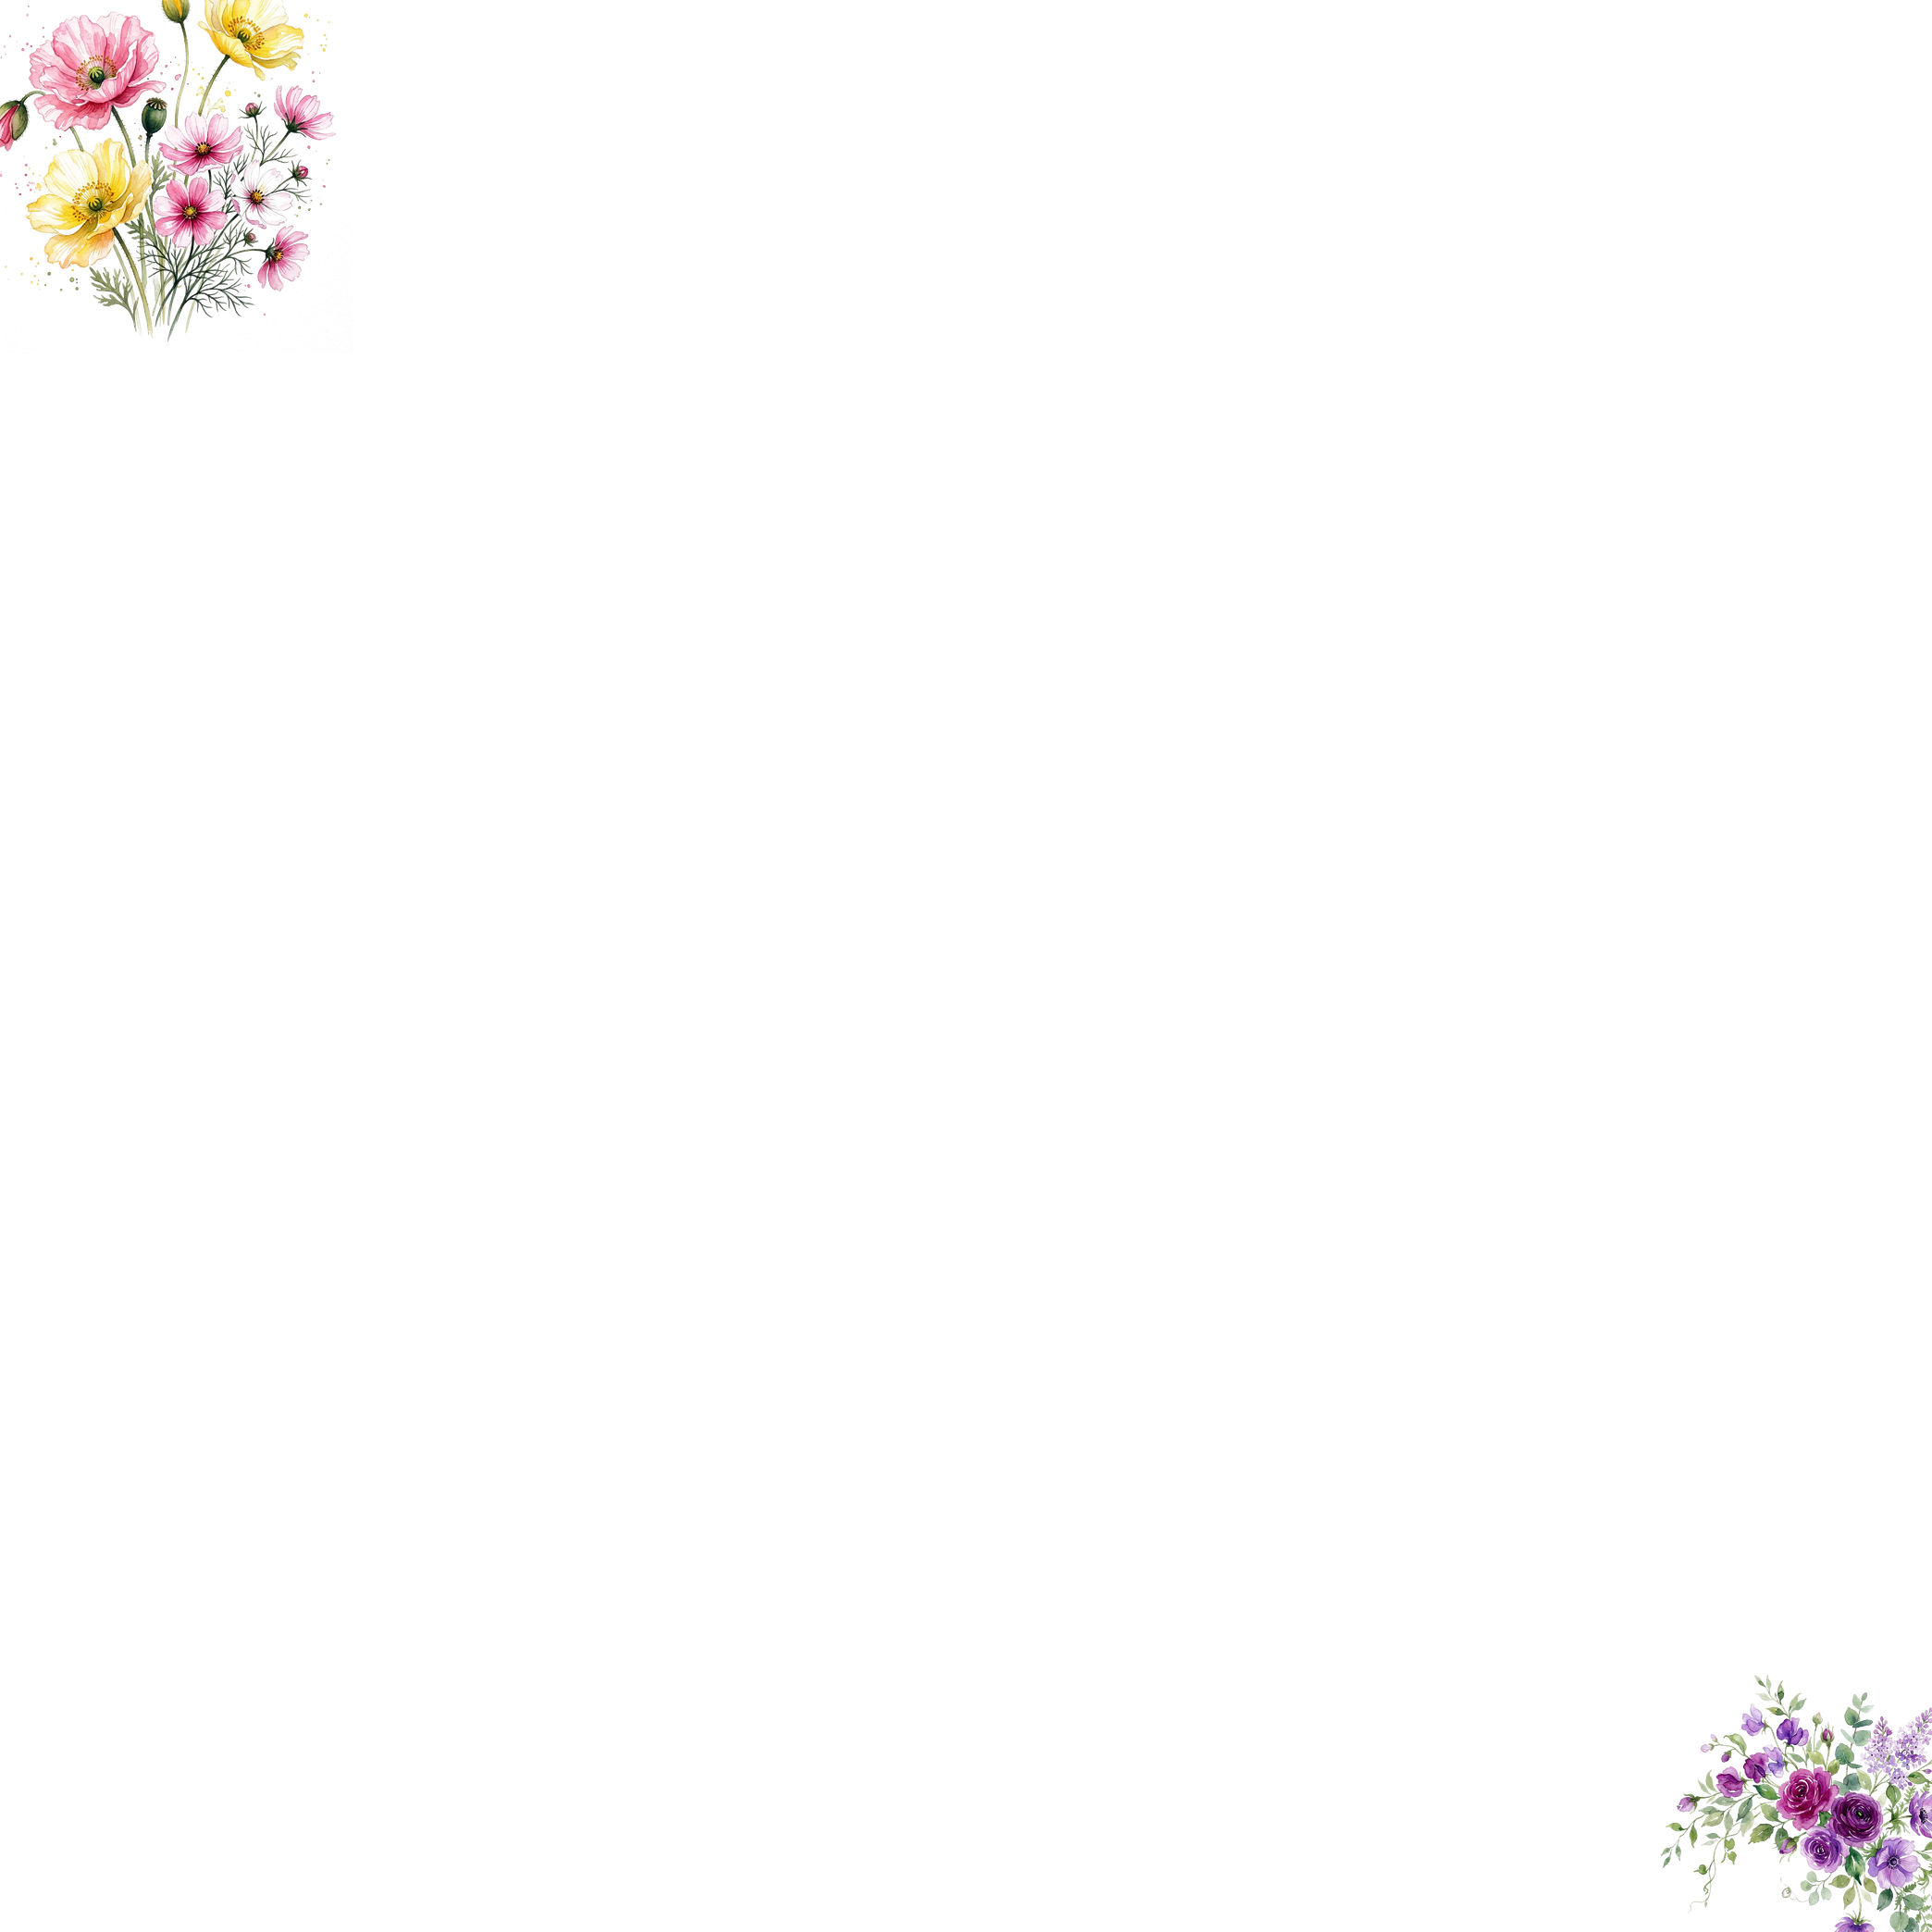
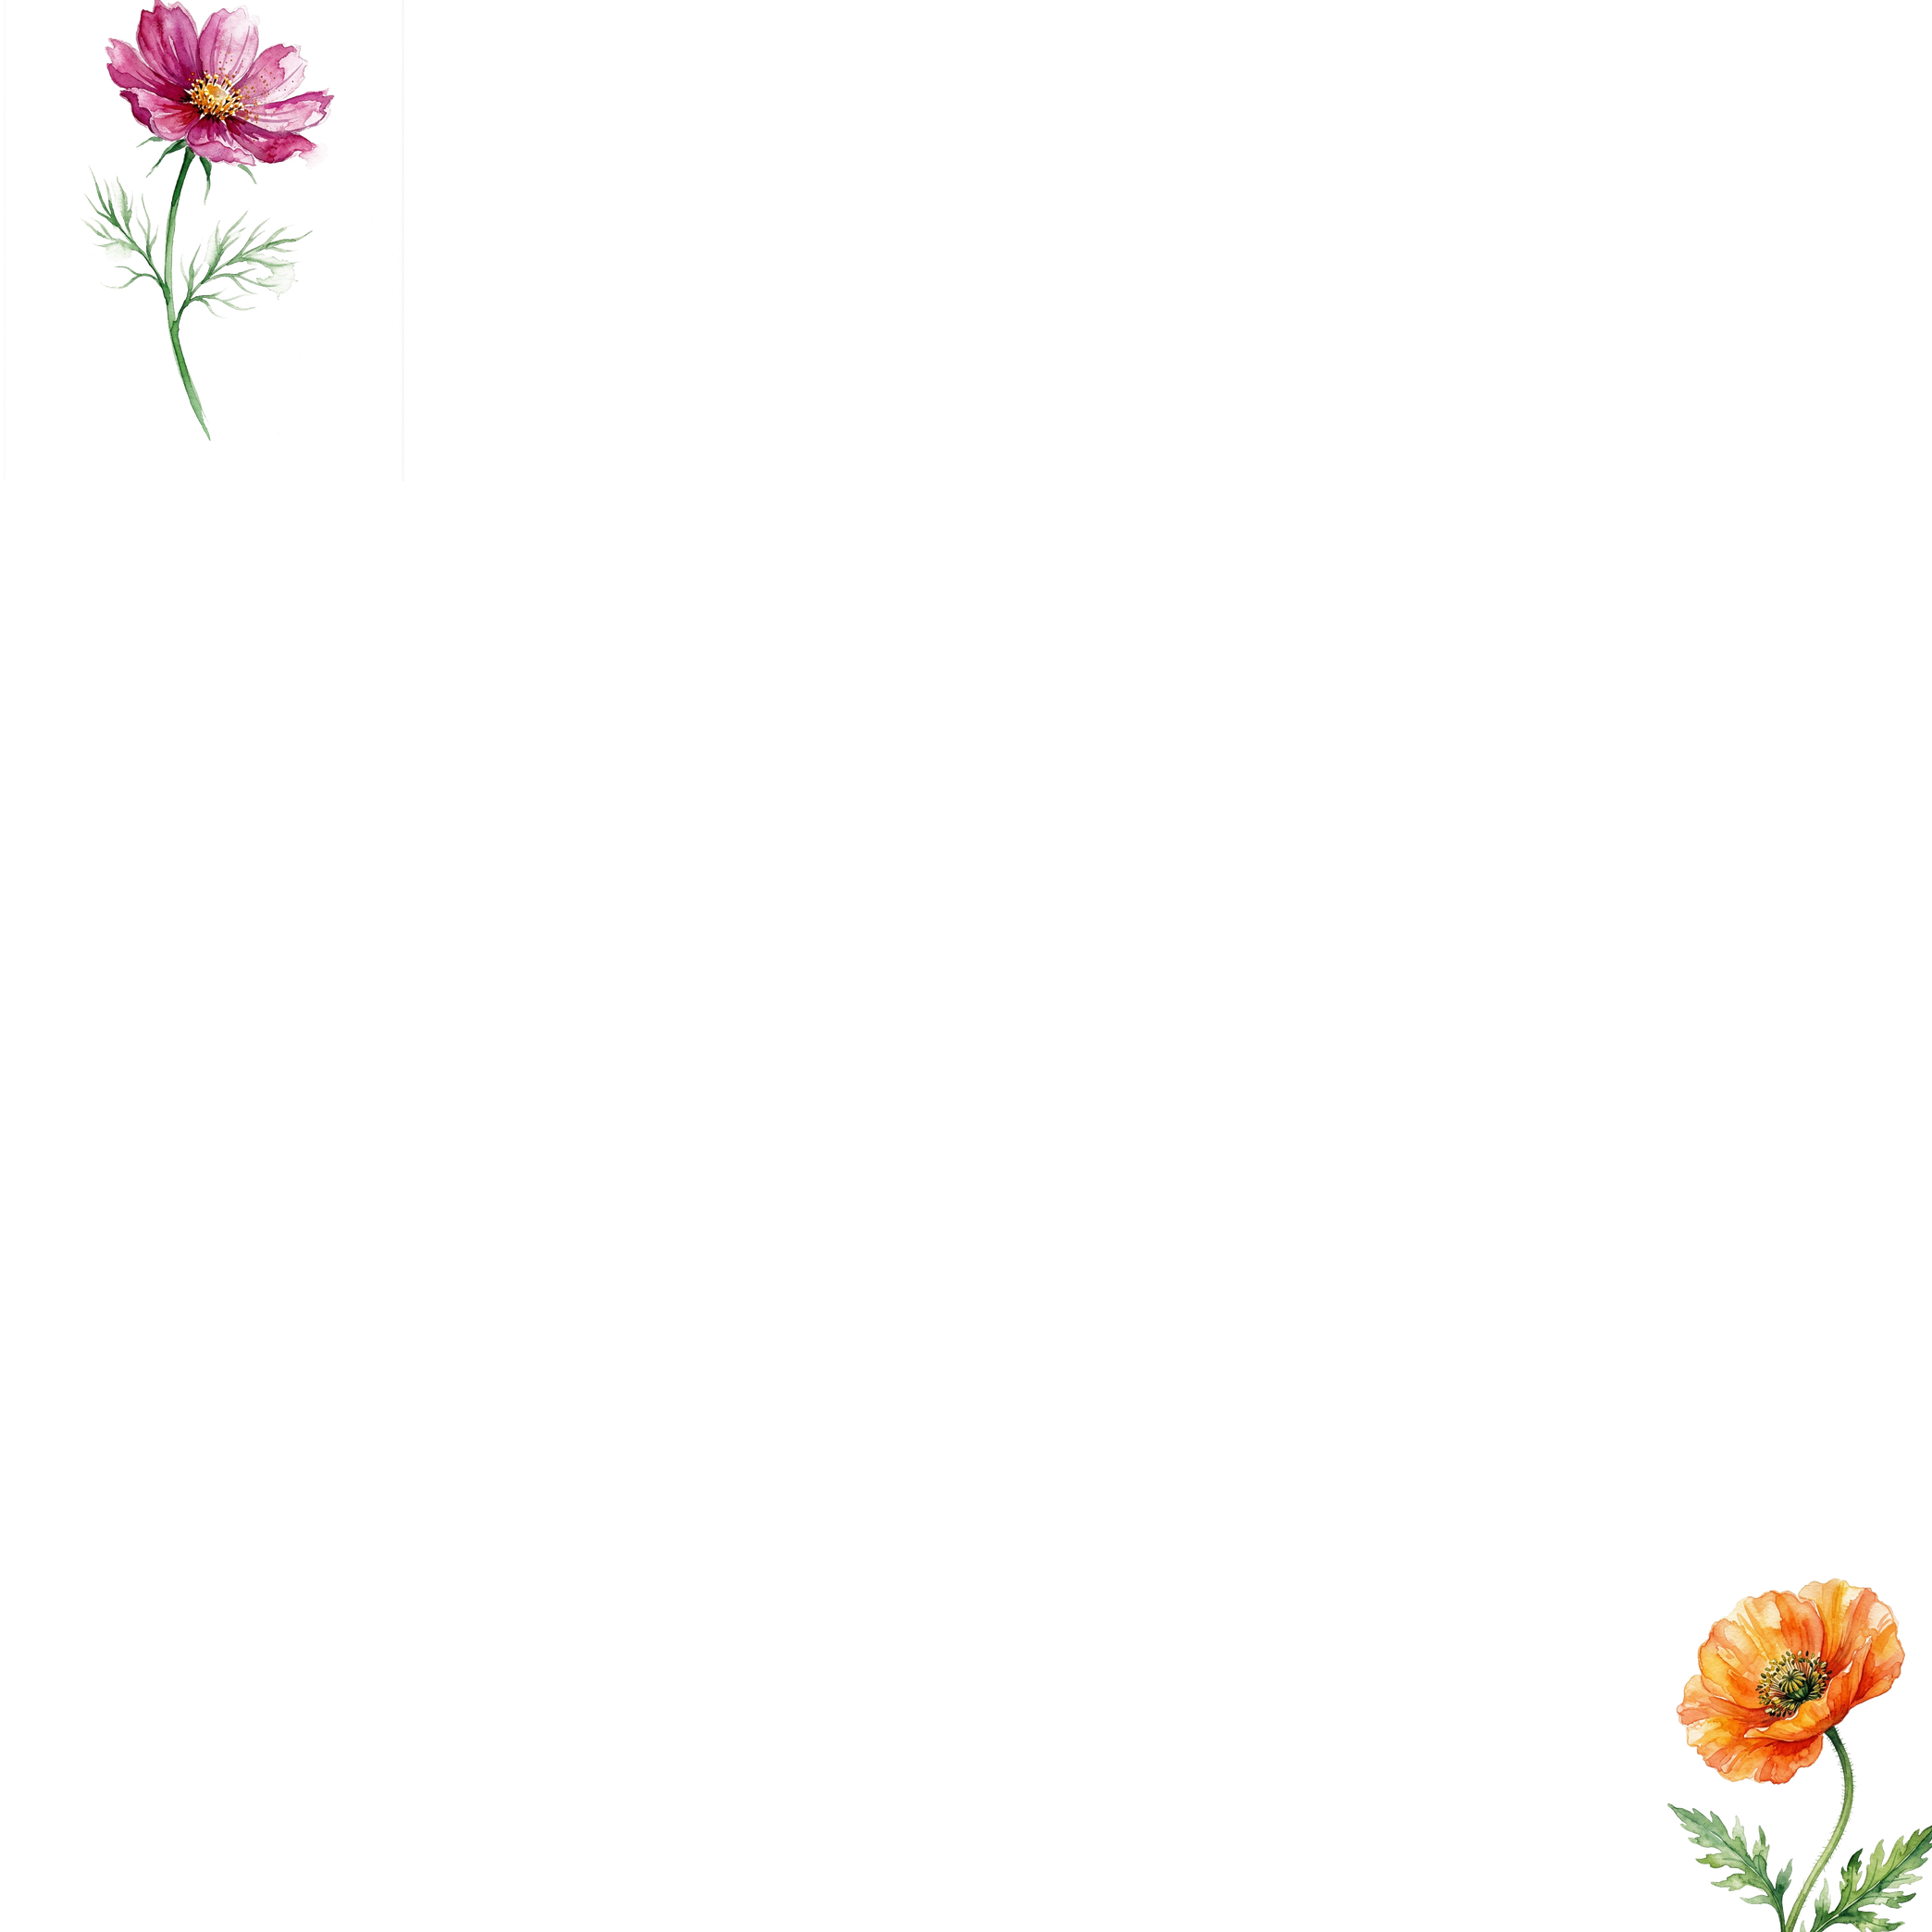
fix: solucionar vibracion AR reduciendo max-Z y aplicando filterBeta, cambiar background y usar flores únicas grandes

Changed region(s): [[0.8405, 0.8094, 1.0, 1.0], [0.0, 0.0, 0.1868, 0.2179]]

diff --git a/create-ar-layers.js b/create-ar-layers.js
@@ -15,11 +15,12 @@ const PHOTO_FILES = [
     'fotos/foto7.jpg', 'fotos/foto8.jpg', 'fotos/foto9.jpg',
 ];
 
-// Nuevas flores acuarela con transparencia limpia
-const FLOWER_FILES = [
-    'assets/flores/flower-w1.png',
-    'assets/flores/flower-w2.png'
+const FLOWER_SINGLE_FILES = [
+    'assets/flores/flower-single1.png', // Pink Cosmos
+    'assets/flores/flower-single2.png'  // Yellow Poppy
 ];
+
+const BACKGROUND_IMAGE = 'C:\\Users\\Sanch\\.gemini\\antigravity\\brain\\ad7774ca-160b-4aa5-a905-b3ca85659852\\floral_background_1775710233191.png';
 
 async function createLayers() {
     console.log('🔮 Generando capas transparentes PRO para Realidad Aumentada 3D...\n');
@@ -28,10 +29,9 @@ async function createLayers() {
 
     const photos = [];
     for (let i = 0; i < PHOTO_FILES.length; i++) {
-        // Cargar fotos sin CERO bordes blancos extra
         let buf = await sharp(PHOTO_FILES[i])
             .resize(CELL_SIZE, CELL_SIZE, { fit: 'cover', position: 'centre' })
-            .grayscale()
+            .grayscale() // Dejamos las fotos en escala de grises y las flores de colores vibrantes
             .png()
             .toBuffer();
         photos.push(buf);
@@ -49,12 +49,12 @@ async function createLayers() {
         return { x, y };
     };
 
-    // LAYER 2: Flores de fondo. Vamos a crear un jardín acuarela abajo
-    let compsL2 = [];
-    compsL2.push({ input: await sharp(FLOWER_FILES[0]).resize(800).toBuffer(), left: 100, top: TOTAL_SIZE - 850 });
-    compsL2.push({ input: await sharp(FLOWER_FILES[1]).resize(900).toBuffer(), left: TOTAL_SIZE - 950, top: 150 });
-    await sharp(await getBlank()).composite(compsL2).png().toFile(path.join(outDir, 'layer2_bg_flowers.png'));
-    console.log('✅ Generada Layer 2 (Jardín Acuarela Base)');
+    // LAYER 1: Full Floral Background (Reemplaza el cuadro real tapando las fotos viejas)
+    await sharp(BACKGROUND_IMAGE)
+        .resize(TOTAL_SIZE, TOTAL_SIZE, { fit: 'cover' })
+        .png()
+        .toFile(path.join(outDir, 'layer1_bg_floral.png'));
+    console.log('✅ Generada Layer 1 (Fondo Completo de Flores sobre el cuadro real)');
 
     // LAYER 3: Cruz de fotos
     const crossIndices = [1, 3, 5, 7];
@@ -64,12 +64,14 @@ async function createLayers() {
         compsL3.push({ input: photos[i], left: x, top: y });
     }
     await sharp(await getBlank()).composite(compsL3).png().toFile(path.join(outDir, 'layer3_cross_photos.png'));
+    console.log('✅ Generada Layer 3');
     
-    // LAYER 4: Flores cruz
+    // LAYER 4: Flores cruz (Flores GRANDES ÚNICAS en las esquinas de algunas fotos de la cruz)
     let compsL4 = [];
-    compsL4.push({ input: await sharp(FLOWER_FILES[1]).resize(500).toBuffer(), left: getCoords(3).x - 100, top: getCoords(3).y + 200 });
-    compsL4.push({ input: await sharp(FLOWER_FILES[0]).resize(450).toBuffer(), left: getCoords(5).x + 300, top: getCoords(5).y - 50 });
+    compsL4.push({ input: await sharp(FLOWER_SINGLE_FILES[1]).resize(450).toBuffer(), left: getCoords(1).x - 120, top: getCoords(1).y + 350 }); // Amarillo en Top
+    compsL4.push({ input: await sharp(FLOWER_SINGLE_FILES[0]).resize(500).toBuffer(), left: getCoords(5).x + 400, top: getCoords(5).y - 150 }); // Rosa en Right
     await sharp(await getBlank()).composite(compsL4).png().toFile(path.join(outDir, 'layer4_cross_flowers.png'));
+    console.log('✅ Generada Layer 4');
 
     // LAYER 5: Esquinas
     const cornerIndices = [0, 2, 6, 8];
@@ -79,22 +81,28 @@ async function createLayers() {
         compsL5.push({ input: photos[i], left: x, top: y });
     }
     await sharp(await getBlank()).composite(compsL5).png().toFile(path.join(outDir, 'layer5_corner_photos.png'));
+    console.log('✅ Generada Layer 5');
 
-    // LAYER 6: Flores esquinas
+    // LAYER 6: Flores esquinas (Flor Grande en la esquina Inferior Izquierda, etc.)
     let compsL6 = [];
-    compsL6.push({ input: await sharp(FLOWER_FILES[0]).resize(500).toBuffer(), left: getCoords(0).x - 200, top: getCoords(0).y - 200 });
-    compsL6.push({ input: await sharp(FLOWER_FILES[1]).resize(400).toBuffer(), left: getCoords(8).x + 400, top: getCoords(8).y + 400 });
+    compsL6.push({ input: await sharp(FLOWER_SINGLE_FILES[0]).resize(600).toBuffer(), left: getCoords(0).x - 200, top: getCoords(0).y - 200 }); // Rosa Top Left
+    compsL6.push({ input: await sharp(FLOWER_SINGLE_FILES[1]).resize(550).toBuffer(), left: getCoords(8).x + 300, top: getCoords(8).y + 300 }); // Amarilla Bottom Right
     await sharp(await getBlank()).composite(compsL6).png().toFile(path.join(outDir, 'layer6_corner_flowers.png'));
+    console.log('✅ Generada Layer 6');
 
     // LAYER 7: Centro
     const centerIndex = 4;
     const cCoords = getCoords(centerIndex);
     await sharp(await getBlank()).composite([{ input: photos[centerIndex], left: cCoords.x, top: cCoords.y }]).png().toFile(path.join(outDir, 'layer7_center_photo.png'));
+    console.log('✅ Generada Layer 7');
 
     // LAYER 8: Flores centro
     let compsL8 = [];
-    compsL8.push({ input: await sharp(FLOWER_FILES[0]).resize(380).toBuffer(), left: cCoords.x + 350, top: cCoords.y + 350 });
+    compsL8.push({ input: await sharp(FLOWER_SINGLE_FILES[0]).resize(500).toBuffer(), left: cCoords.x - 150, top: cCoords.y + 450 }); // Rosa tapando la esquina inferior izquierda del centro
     await sharp(await getBlank()).composite(compsL8).png().toFile(path.join(outDir, 'layer8_center_flowers.png'));
+    console.log('✅ Generada Layer 8');
+
+    console.log('🎉 ¡Nuevas Capas 3D con flores elegantes únicas completadas!');
 }
 
 createLayers().catch(err => {

diff --git a/index.html b/index.html
@@ -179,16 +179,15 @@
 
     <!-- ====== AR SCENE (Parallax 3D Real) ====== -->
     <a-scene
-        mindar-image="imageTargetSrc: ./assets/cuadro.mind; autoStart: false; uiLoading: no; uiScanning: no; filterMinCF: 0.001; filterBeta: 1000;"
+        mindar-image="imageTargetSrc: ./assets/cuadro.mind; autoStart: false; uiLoading: no; uiScanning: no; filterMinCF: 0.0001; filterBeta: 0.001;"
         color-space="sRGB"
         renderer="colorManagement: true; physicallyCorrectLights: true;"
         vr-mode-ui="enabled: false"
         device-orientation-permission-ui="enabled: false"
     >
-        <!-- Cargamos las 8 capas transparentes que generamos en Node.js -->
+        <!-- Cargamos las capas: Flores grandes únicas, fondo lleno, y fotos estables -->
         <a-assets>
-            <img id="layer1" src="./assets/collage-cuadro.png" crossorigin="anonymous">
-            <img id="layer2" src="./assets/layers/layer2_bg_flowers.png" crossorigin="anonymous">
+            <img id="layer1" src="./assets/layers/layer1_bg_floral.png" crossorigin="anonymous">
             <img id="layer3" src="./assets/layers/layer3_cross_photos.png" crossorigin="anonymous">
             <img id="layer4" src="./assets/layers/layer4_cross_flowers.png" crossorigin="anonymous">
             <img id="layer5" src="./assets/layers/layer5_corner_photos.png" crossorigin="anonymous">
@@ -202,42 +201,39 @@
 
         <a-entity mindar-image-target="targetIndex: 0" id="ar-group">
             <!-- 
-                Efecto Parallax Frontal (Pop-Out)
-                Usamos distancias POSITIVAS en el eje Z para que al mover el celular
-                las fotos orbiten visualmente sobre el papel en el mundo real.
+                Efecto Parallax Frontal Estable:
+                El Fondo floral oculta las fotos físicas, las capas flotan 
+                ligeramente sin demasiada Z para evitar vibraciones angulares
             -->
             
-            <a-image id="img-layer1" src="#layer1" position="0 0 0.01" width="1" height="1"></a-image>
-
-            <a-image id="img-layer2" src="#layer2" position="0 0 0" width="1.2" height="1.2" 
-                animation__pop="property: position; to: 0 0 0.05; dur: 2000; easing: easeOutElastic; startEvents: animate-pop"></a-image>
+            <a-image id="img-layer1" src="#layer1" position="0 0 0.00" width="1.0" height="1.0"></a-image>
 
             <a-image id="img-layer3" src="#layer3" position="0 0 0" width="1" height="1"
-                animation__pop="property: position; to: 0 0 0.12; dur: 1500; easing: easeOutElastic; startEvents: animate-pop"
-                animation__rot="property: rotation; to: 0 0 2; dur: 1800; easing: easeOutQuad; startEvents: animate-pop"></a-image>
+                animation__pop="property: position; to: 0 0 0.03; dur: 1500; easing: easeOutElastic; startEvents: animate-pop"
+                animation__rot="property: rotation; to: 0 0 1.5; dur: 1800; easing: easeOutQuad; startEvents: animate-pop"></a-image>
 
             <a-image id="img-layer4" src="#layer4" position="0 0 0" width="1" height="1"
-                animation__pop="property: position; to: 0 0 0.16; dur: 1700; easing: easeOutElastic; startEvents: animate-pop"></a-image>
+                animation__pop="property: position; to: 0 0 0.05; dur: 1700; easing: easeOutElastic; startEvents: animate-pop"></a-image>
 
             <a-image id="img-layer5" src="#layer5" position="0 0 0" width="1" height="1"
-                animation__pop="property: position; to: 0 0 0.22; dur: 1900; easing: easeOutElastic; startEvents: animate-pop"
-                animation__rot="property: rotation; to: 0 0 -3; dur: 2000; easing: easeOutQuad; startEvents: animate-pop"></a-image>
+                animation__pop="property: position; to: 0 0 0.07; dur: 1900; easing: easeOutElastic; startEvents: animate-pop"
+                animation__rot="property: rotation; to: 0 0 -2; dur: 2000; easing: easeOutQuad; startEvents: animate-pop"></a-image>
 
             <a-image id="img-layer6" src="#layer6" position="0 0 0" width="1" height="1"
-                animation__pop="property: position; to: 0 0 0.28; dur: 2100; easing: easeOutElastic; startEvents: animate-pop"></a-image>
+                animation__pop="property: position; to: 0 0 0.09; dur: 2100; easing: easeOutElastic; startEvents: animate-pop"></a-image>
 
             <a-image id="img-layer7" src="#layer7" position="0 0 0" width="1" height="1"
-                animation__pop="property: position; to: 0 0 0.35; dur: 2300; easing: easeOutElastic; startEvents: animate-pop"
-                animation__rot="property: rotation; to: 0 0 4; dur: 2200; easing: easeOutQuad; startEvents: animate-pop"></a-image>
+                animation__pop="property: position; to: 0 0 0.11; dur: 2300; easing: easeOutElastic; startEvents: animate-pop"
+                animation__rot="property: rotation; to: 0 0 2; dur: 2200; easing: easeOutQuad; startEvents: animate-pop"></a-image>
 
             <a-image id="img-layer8" src="#layer8" position="0 0 0" width="1" height="1"
-                animation__pop="property: position; to: 0 0 0.40; dur: 2500; easing: easeOutElastic; startEvents: animate-pop"></a-image>
+                animation__pop="property: position; to: 0 0 0.13; dur: 2500; easing: easeOutElastic; startEvents: animate-pop"></a-image>
 
             <!-- Texto 3D Te Amo -->
             <a-entity id="texto-teamo" position="0 -0.4 0" 
                 text="value: Te amo mi vida; font: https://cdn.aframe.io/fonts/mozillavr.fnt; color: #ff6b9d; align: center; width: 1.5;"
-                animation__pop="property: position; to: 0 -0.4 0.50; dur: 2800; easing: easeOutElastic; startEvents: animate-pop"
-                animation__float="property: position; to: 0 -0.38 0.50; dur: 2000; easing: easeInOutSine; dir: alternate; loop: true; startEvents: animate-pop">
+                animation__pop="property: position; to: 0 -0.4 0.15; dur: 2800; easing: easeOutElastic; startEvents: animate-pop"
+                animation__float="property: position; to: 0 -0.38 0.15; dur: 2000; easing: easeInOutSine; dir: alternate; loop: true; startEvents: animate-pop">
             </a-entity>
         </a-entity>
     </a-scene>

diff --git a/process-flowers.js b/process-flowers.js
@@ -2,10 +2,13 @@ const Jimp = require('jimp');
 const path = require('path');
 const fs = require('fs');
 
-const in1 = 'C:\\Users\\Sanch\\.gemini\\antigravity\\brain\\ad7774ca-160b-4aa5-a905-b3ca85659852\\watercolor_floral_v1_1775709305410.png';
-const in2 = 'C:\\Users\\Sanch\\.gemini\\antigravity\\brain\\ad7774ca-160b-4aa5-a905-b3ca85659852\\watercolor_floral_v2_1775709318147.png';
-const out1 = path.join(__dirname, 'assets', 'flores', 'flower-w1.png');
-const out2 = path.join(__dirname, 'assets', 'flores', 'flower-w2.png');
+const baseDir = "C:\\Users\\Sanch\\.gemini\\antigravity\\brain\\ad7774ca-160b-4aa5-a905-b3ca85659852";
+
+const in1 = path.join(baseDir, 'single_flower_pink_1775710206030.png');
+const in2 = path.join(baseDir, 'single_flower_yellow_1775710220760.png');
+
+const out1 = path.join(__dirname, 'assets', 'flores', 'flower-single1.png');
+const out2 = path.join(__dirname, 'assets', 'flores', 'flower-single2.png');
 
 async function removeWhiteBackground(inputPath, outputPath) {
     if (!fs.existsSync(inputPath)) {
@@ -23,13 +26,11 @@ async function removeWhiteBackground(inputPath, outputPath) {
         // Calcular "blancura". 255 = puro blanco.
         const avg = (r + g + b) / 3;
         
-        // Si el brillo promedio es mayor a 245, lo hacemos 100% transparente
+        // Si el brillo promedio es mayor a 240, lo hacemos 100% transparente
         if (r > 240 && g > 240 && b > 240) {
             this.bitmap.data[idx + 3] = 0; // Alpha = 0
-        } else if (avg > 200) {
-            // Suavizado para evitar bordes blancos duros (halo)
-            // mapped from 200->255 to alpha 255->0
-            const alpha = Math.max(0, 255 - ((avg - 200) * (255 / 55)));
+        } else if (avg > 180) {
+            const alpha = Math.max(0, 255 - ((avg - 180) * (255 / 75)));
             this.bitmap.data[idx + 3] = alpha;
         }
     });